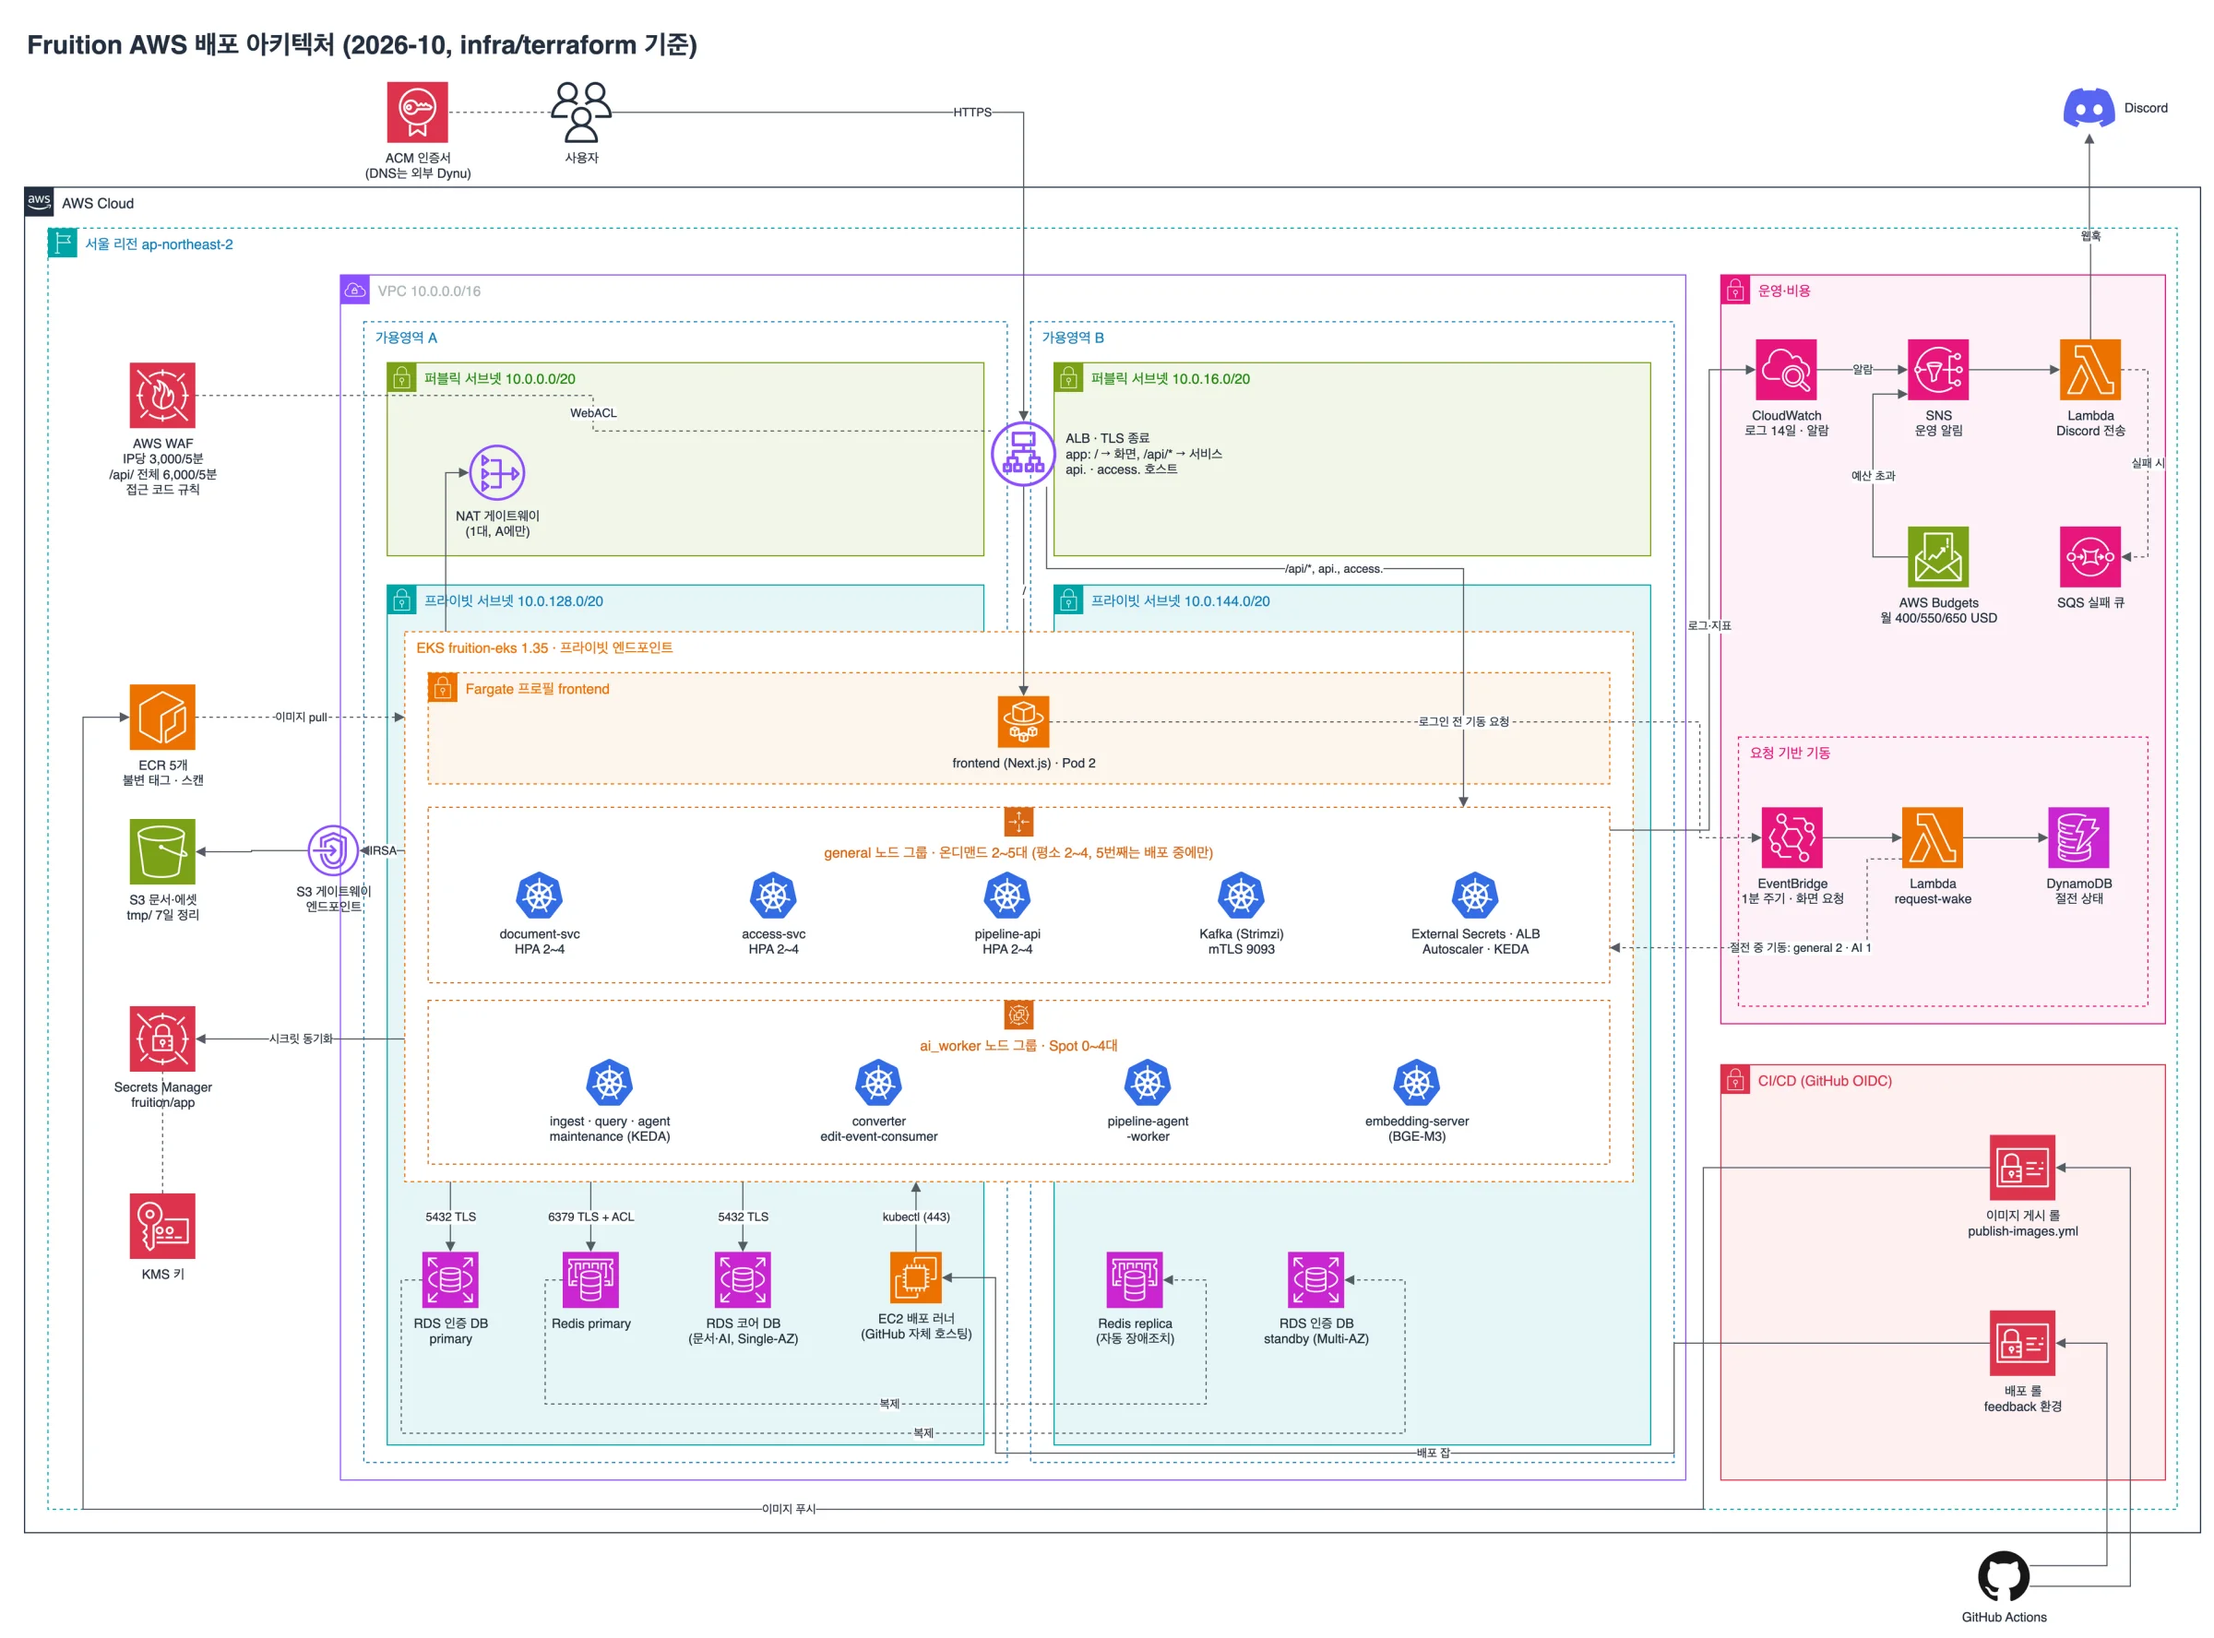
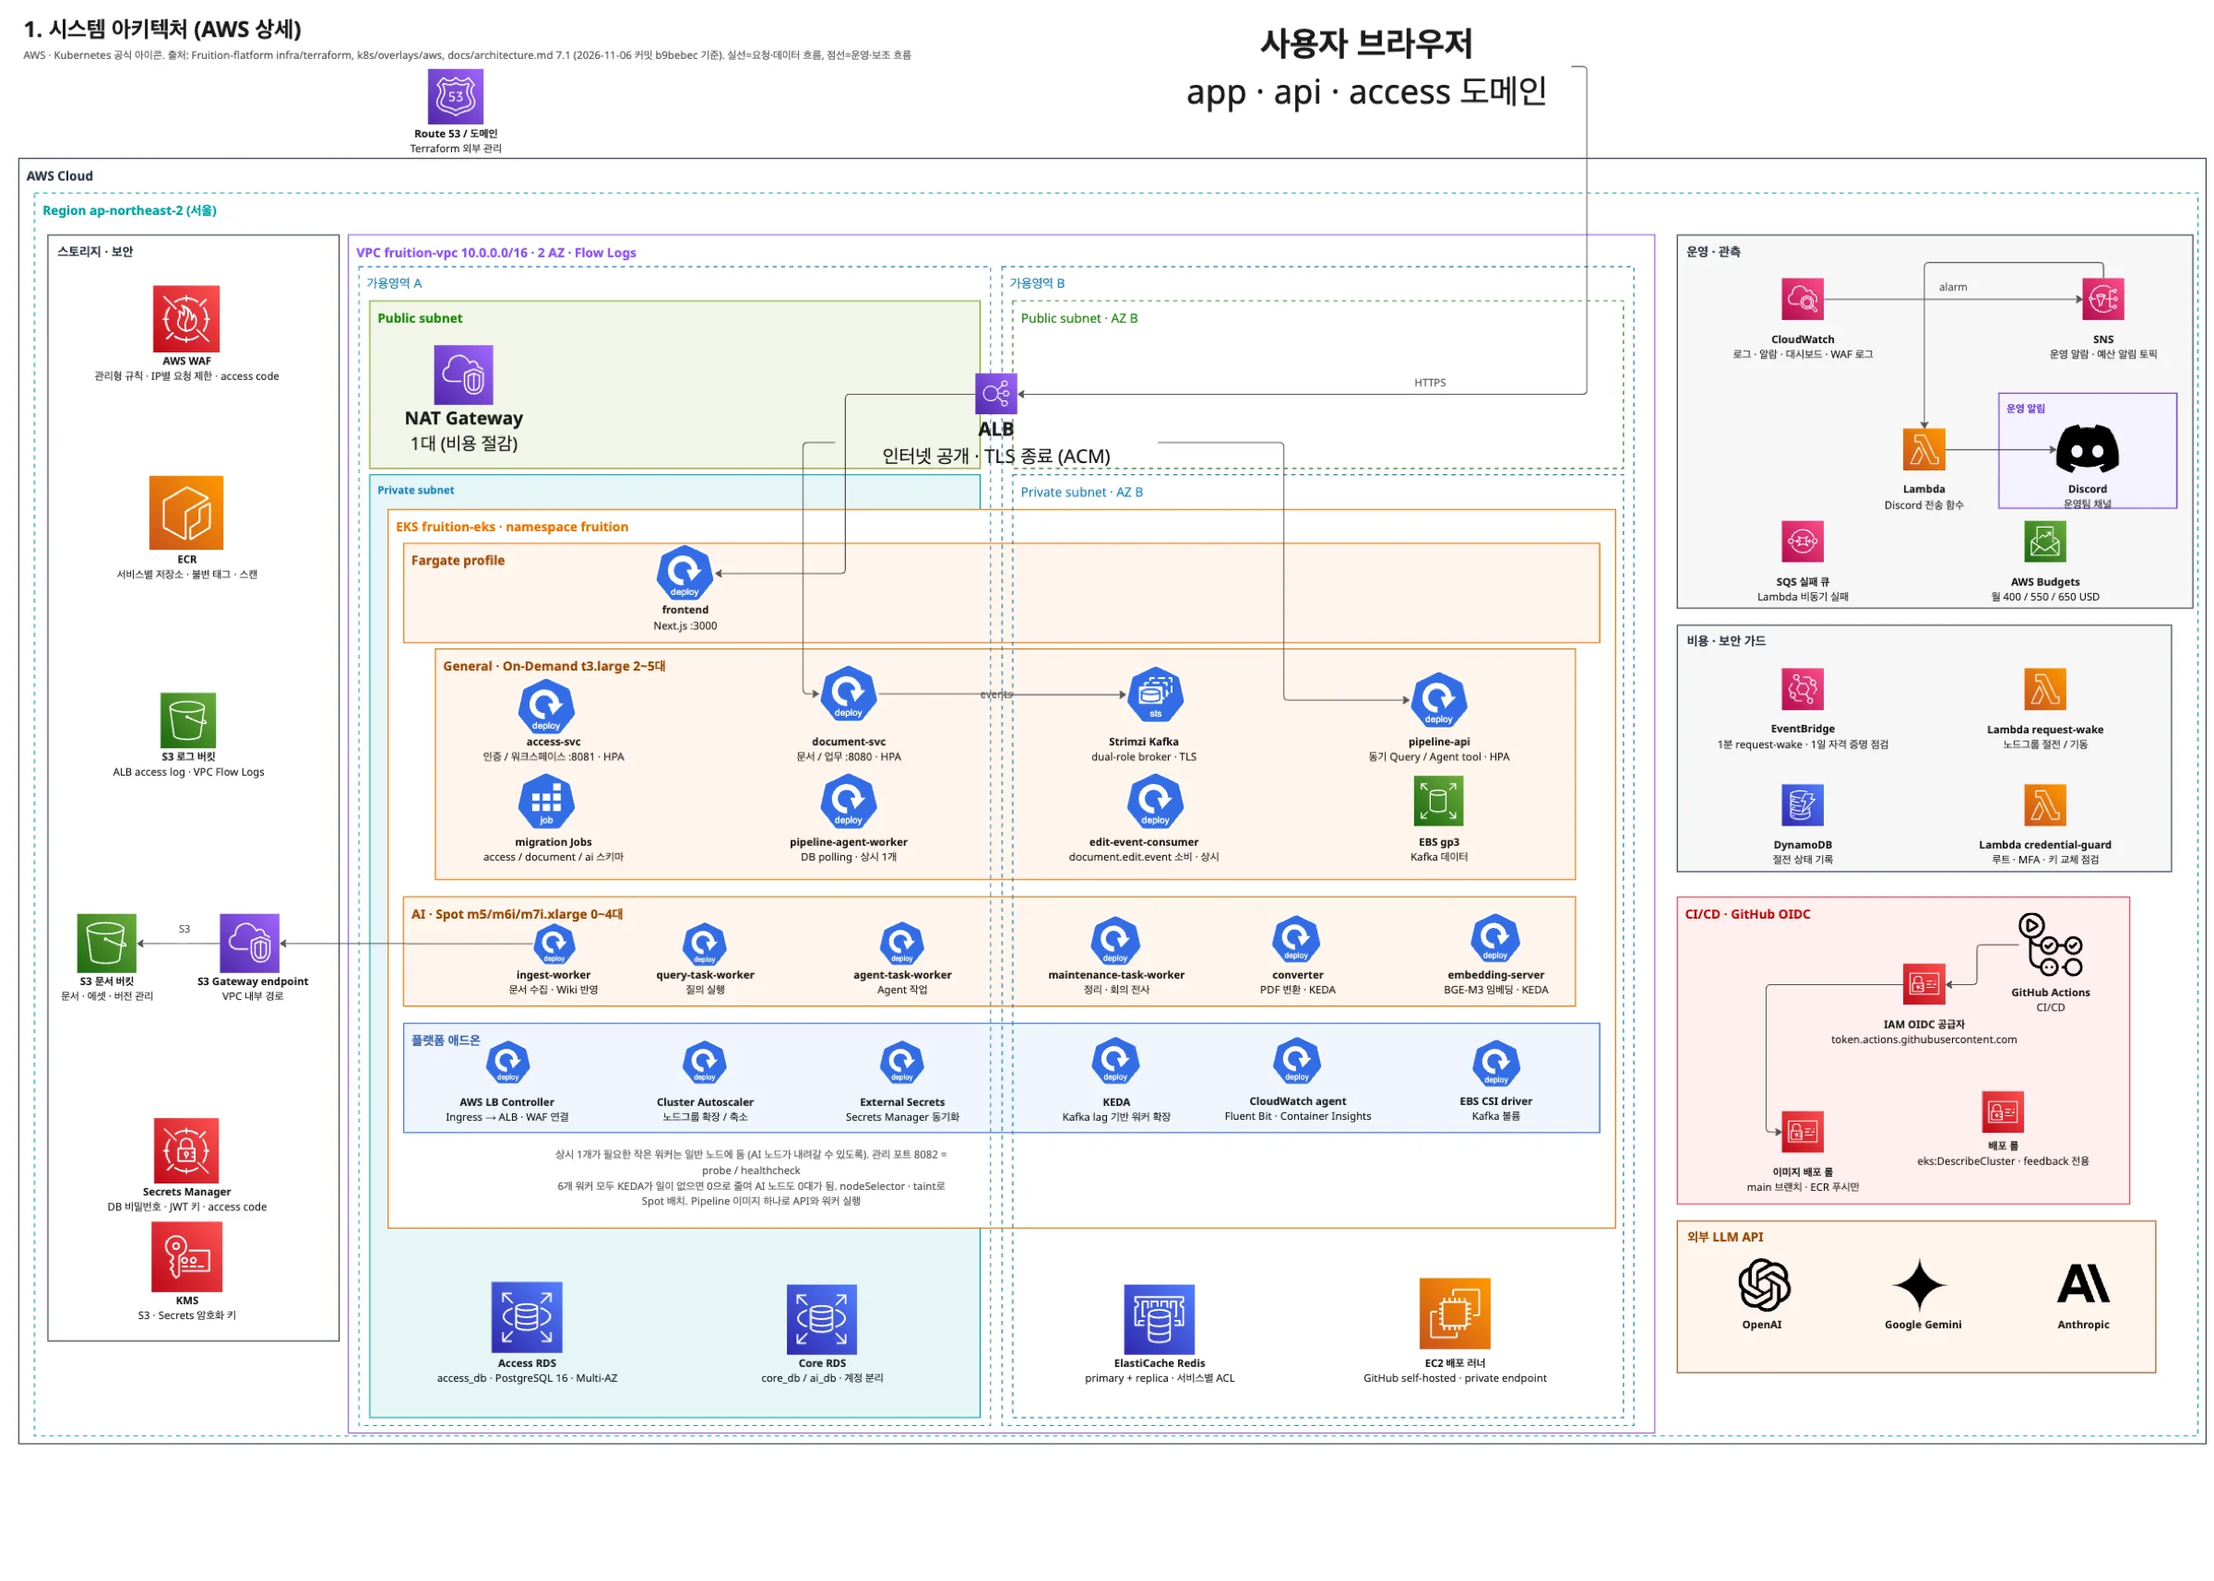
docs: Fruition 아키텍처·데모 이미지 최신화와 지식재산권 날짜 수정
- 아키텍처 구성도를 최신 Terraform 기준으로 교체
- 갤러리를 데모 6장과 지식재산권 현황으로 교체(팀원 이름·주소 가림)
- 저작권 등록 2026.10, 임시 특허 출원 2026.11로 날짜 구분

diff --git a/src/content/projects/fruition/index.md b/src/content/projects/fruition/index.md
@@ -16,13 +16,19 @@ image: "/img/fruition/banner.webp"
 # 카드 썸네일에서 보일 위치 (CSS object-position)
 imagePosition: "68% center"
 gallery:
-  - src: "/img/fruition/workspace.webp"
-    caption: "워크스페이스 · AI 어시스턴트"
-  - src: "/img/fruition/wiki.webp"
-    caption: "LLM Wiki · 지식 그래프"
-  - src: "/img/fruition/history.webp"
-    caption: "스킬 · 히스토리 롤백"
-  - src: "/img/fruition/auth.webp"
-    caption: "로그인 · 회원가입"
+  - src: "/img/fruition/demo-upload-edit.webp"
+    caption: "문서 업로드 · 편집"
+  - src: "/img/fruition/demo-ingest.webp"
+    caption: "Wiki 생성 · Ingest"
+  - src: "/img/fruition/demo-query.webp"
+    caption: "Wiki 기반 질의응답"
+  - src: "/img/fruition/demo-grow.webp"
+    caption: "채팅 내용 Wiki 편입"
+  - src: "/img/fruition/demo-lint.webp"
+    caption: "Wiki 점검 · Lint"
+  - src: "/img/fruition/demo-mcp.webp"
+    caption: "MCP"
+  - src: "/img/fruition/ip.webp"
+    caption: "지식재산권 현황 (임시 특허 출원 · SW 저작권 등록)"
 ownStack: ["AWS EKS", "Terraform", "GitHub Actions OIDC", "Kafka (Strimzi)", "KEDA", "Next.js"]
 ---
